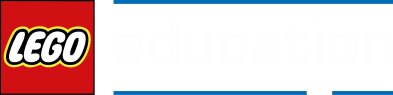
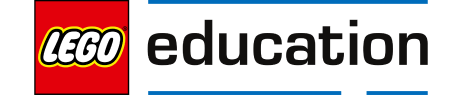
img fix

diff --git a/pages/courses.js b/pages/courses.js
@@ -62,7 +62,7 @@ export async function getStaticProps() {
           id: 2,
           title: 'Lego WeDo',
           asPath: 'LegoWeDo',
-          logo: ['/static/new_img/courses/lego.png'],
+          logo: ['/static/new_img/courses/lego_white.png'],
           description:
               'Lorem ipsum dolor sit amet, consectetuer adipiscing elit. Aenean commodo ligula eget dolor. Aenean massa. Cum sociis natoque penatibus et magnis dis parturient montes, nascetur ridiculus mus. Donec quam felis, ultricies nec, pellentesque eu, pretium quis, sem. Nulla consequat massa quis enim. Donec pede justo, fringilla vel, aliquet nec, vulputate',
         },
